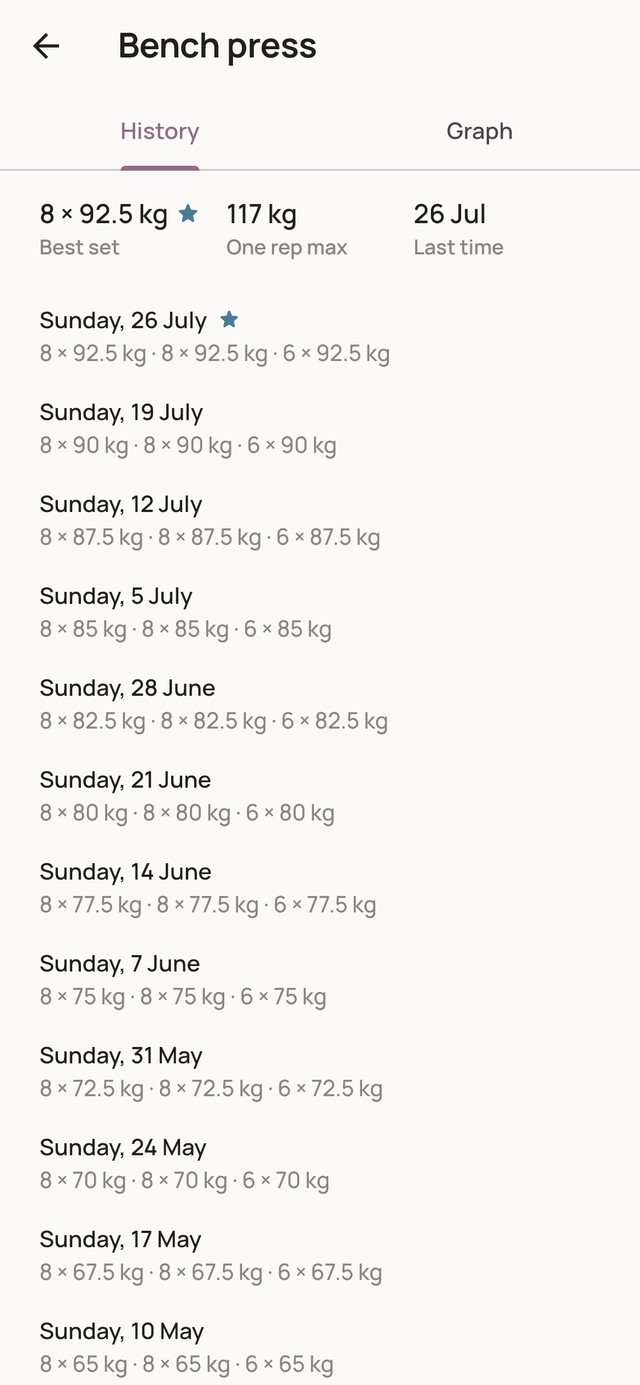
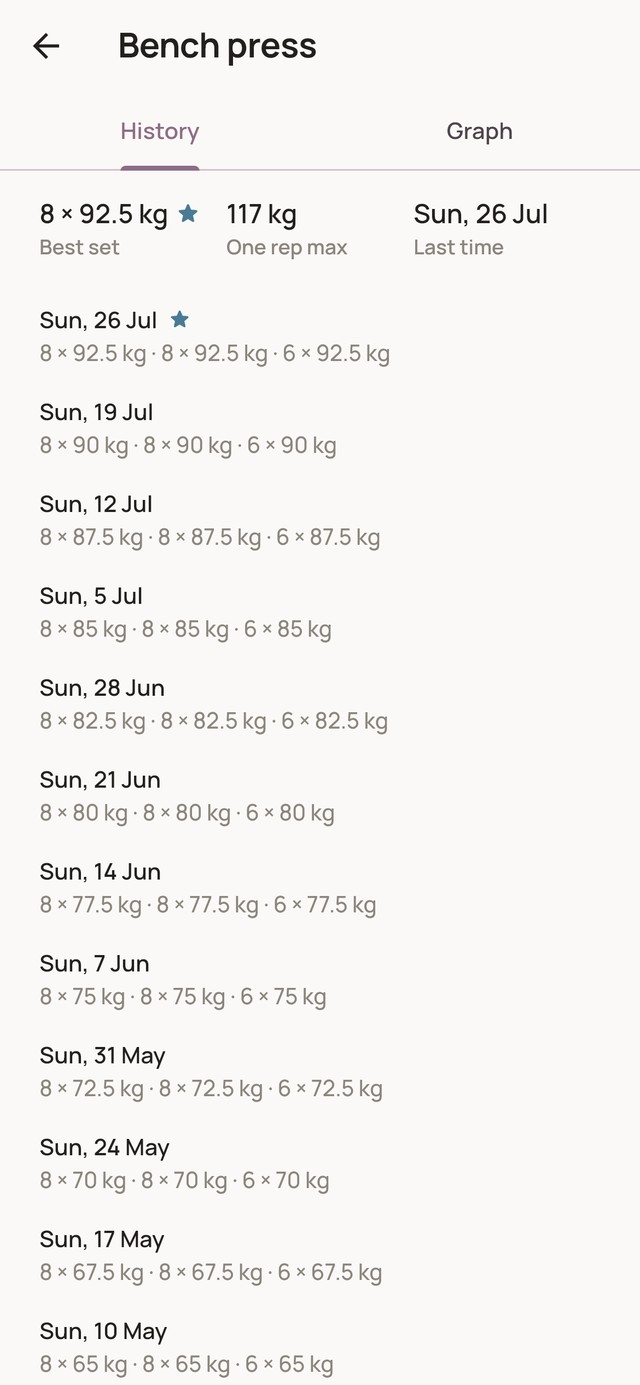
Show Portuguese screens on the Portuguese page
The pictures were the English app on every page, which on a translated
page is the one thing that says nobody translated it. The screenshot
test now walks the app a second time in Portuguese and img/pt holds
that set.

diff --git a/pt/index.html b/pt/index.html
@@ -67,11 +67,11 @@
       "installUrl": "https://clovie.eu/pt/testers.html",
       "image": "https://clovie.eu/img/og.png",
       "screenshot": [
-        "https://clovie.eu/img/shot-home.jpg",
-        "https://clovie.eu/img/shot-calendar.jpg",
-        "https://clovie.eu/img/shot-shopping.jpg",
-        "https://clovie.eu/img/shot-recipes.jpg",
-        "https://clovie.eu/img/shot-gym.jpg"
+        "https://clovie.eu/img/pt/shot-home.jpg",
+        "https://clovie.eu/img/pt/shot-calendar.jpg",
+        "https://clovie.eu/img/pt/shot-shopping.jpg",
+        "https://clovie.eu/img/pt/shot-recipes.jpg",
+        "https://clovie.eu/img/pt/shot-gym.jpg"
       ],
       "inLanguage": ["en-GB", "pt-PT"],
       "isFamilyFriendly": true,
@@ -117,7 +117,7 @@
       <p class="hero-note">Iniciem sessão juntos para partilhar, ou usa-a num telemóvel só, sem conta nenhuma.</p>
     </div>
     <div class="hero-art reveal">
-      <img class="shot" src="../img/shot-home.jpg" alt="Ecrã inicial do Clovie, a cumprimentar as duas pessoas pelo nome com a contagem de dias juntos e os planos do dia por baixo" width="640" height="1385" loading="eager">
+      <img class="shot" src="../img/pt/shot-home.jpg" alt="Ecrã inicial do Clovie, a cumprimentar as duas pessoas pelo nome com a contagem de dias juntos e os planos do dia por baixo" width="640" height="1385" loading="eager">
     </div>
   </section>
 
@@ -133,8 +133,8 @@
     <div class="feature reveal">
       <div class="feature-art">
         <div class="pair">
-          <img class="shot a" src="../img/shot-calendar.jpg" alt="Vista mensal do calendário partilhado com pontos coloridos a marcar de quem é cada evento" width="640" height="1385" loading="lazy">
-          <img class="shot b" src="../img/shot-calendar-week.jpg" alt="O mesmo calendário em semana, hora a hora" width="640" height="1385" loading="lazy">
+          <img class="shot a" src="../img/pt/shot-calendar.jpg" alt="Vista mensal do calendário partilhado com pontos coloridos a marcar de quem é cada evento" width="640" height="1385" loading="lazy">
+          <img class="shot b" src="../img/pt/shot-calendar-week.jpg" alt="O mesmo calendário em semana, hora a hora" width="640" height="1385" loading="lazy">
         </div>
       </div>
       <div class="feature-copy">
@@ -145,7 +145,7 @@
 
     <div class="feature reveal">
       <div class="feature-art">
-        <img class="shot" src="../img/shot-shopping.jpg" alt="Lista de compras partilhada organizada em secções Frescos e Despensa, com quantidades ao lado de cada item" width="640" height="1385" loading="lazy">
+        <img class="shot" src="../img/pt/shot-shopping.jpg" alt="Lista de compras partilhada organizada em secções Frescos e Despensa, com quantidades ao lado de cada item" width="640" height="1385" loading="lazy">
       </div>
       <div class="feature-copy">
         <h3>Uma lista de compras nos dois telemóveis</h3>
@@ -156,8 +156,8 @@
     <div class="feature reveal">
       <div class="feature-art">
         <div class="pair mirror">
-          <img class="shot a" src="../img/shot-recipes.jpg" alt="Livro de receitas com tempo de confeção, doses e etiquetas indicados em cada receita" width="640" height="1385" loading="lazy">
-          <img class="shot b" src="../img/shot-recipe.jpg" alt="Uma receita aberta, com os ingredientes e os passos" width="640" height="1385" loading="lazy">
+          <img class="shot a" src="../img/pt/shot-recipes.jpg" alt="Livro de receitas com tempo de confeção, doses e etiquetas indicados em cada receita" width="640" height="1385" loading="lazy">
+          <img class="shot b" src="../img/pt/shot-recipe.jpg" alt="Uma receita aberta, com os ingredientes e os passos" width="640" height="1385" loading="lazy">
         </div>
       </div>
       <div class="feature-copy">
@@ -169,9 +169,9 @@
     <div class="feature feature-wide reveal">
       <div class="feature-art">
         <div class="trio">
-          <img class="shot" src="../img/shot-gym.jpg" alt="Resumo de treino a mostrar uma sequência semanal, dias treinados esta semana e séries registadas por grupo muscular" width="640" height="1385" loading="lazy">
-          <img class="shot" src="../img/shot-exercise-history.jpg" alt="O histórico de um exercício, com todas as séries registadas" width="640" height="1385" loading="lazy">
-          <img class="shot" src="../img/shot-weight.jpg" alt="O peso corporal ao longo do ano, em linha e nos dias em que foi pesado" width="640" height="1385" loading="lazy">
+          <img class="shot" src="../img/pt/shot-gym.jpg" alt="Resumo de treino a mostrar uma sequência semanal, dias treinados esta semana e séries registadas por grupo muscular" width="640" height="1385" loading="lazy">
+          <img class="shot" src="../img/pt/shot-exercise-history.jpg" alt="O histórico de um exercício, com todas as séries registadas" width="640" height="1385" loading="lazy">
+          <img class="shot" src="../img/pt/shot-weight.jpg" alt="O peso corporal ao longo do ano, em linha e nos dias em que foi pesado" width="640" height="1385" loading="lazy">
         </div>
       </div>
       <div class="feature-copy">
@@ -182,7 +182,7 @@
 
     <div class="feature reveal">
       <div class="feature-art">
-        <img class="shot" src="../img/shot-cycle.jpg" alt="Ecrã de registo de ciclo a mostrar o dia atual do ciclo, o próximo período e a janela fértil, e como correu o dia" width="640" height="1385" loading="lazy">
+        <img class="shot" src="../img/pt/shot-cycle.jpg" alt="Ecrã de registo de ciclo a mostrar o dia atual do ciclo, o próximo período e a janela fértil, e como correu o dia" width="640" height="1385" loading="lazy">
       </div>
       <div class="feature-copy">
         <h3>Um registo de ciclo, se quiseres</h3>
